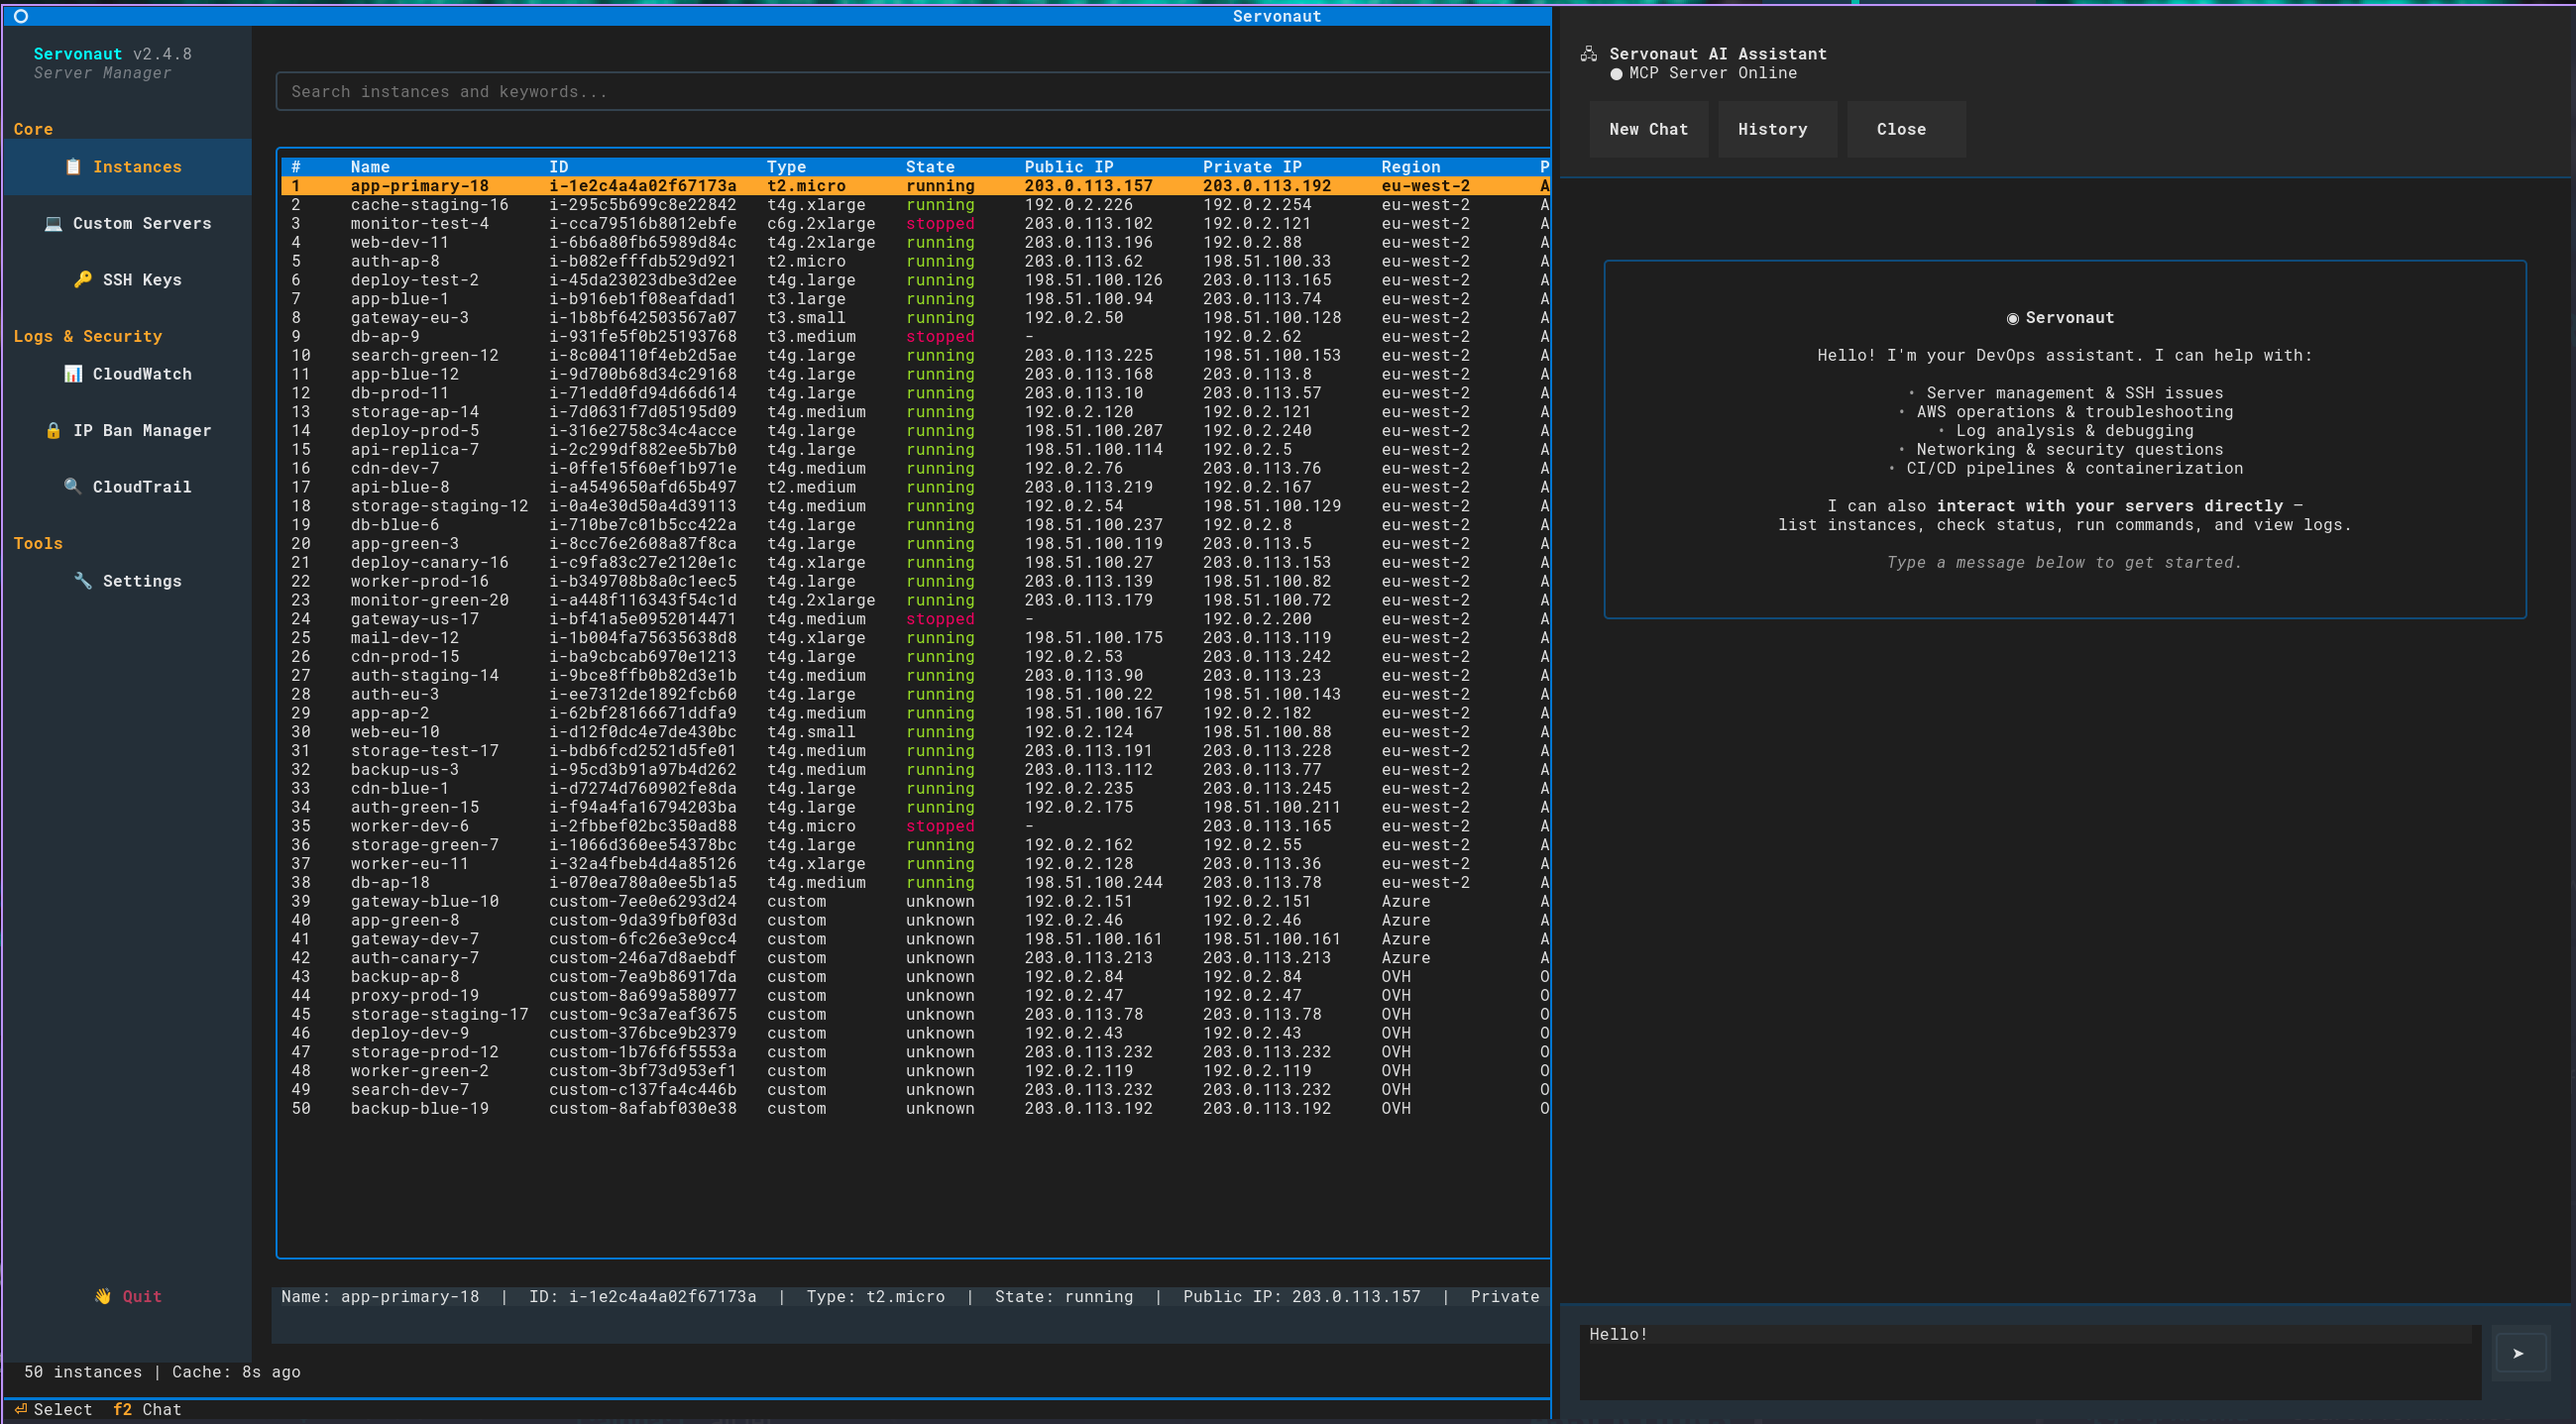
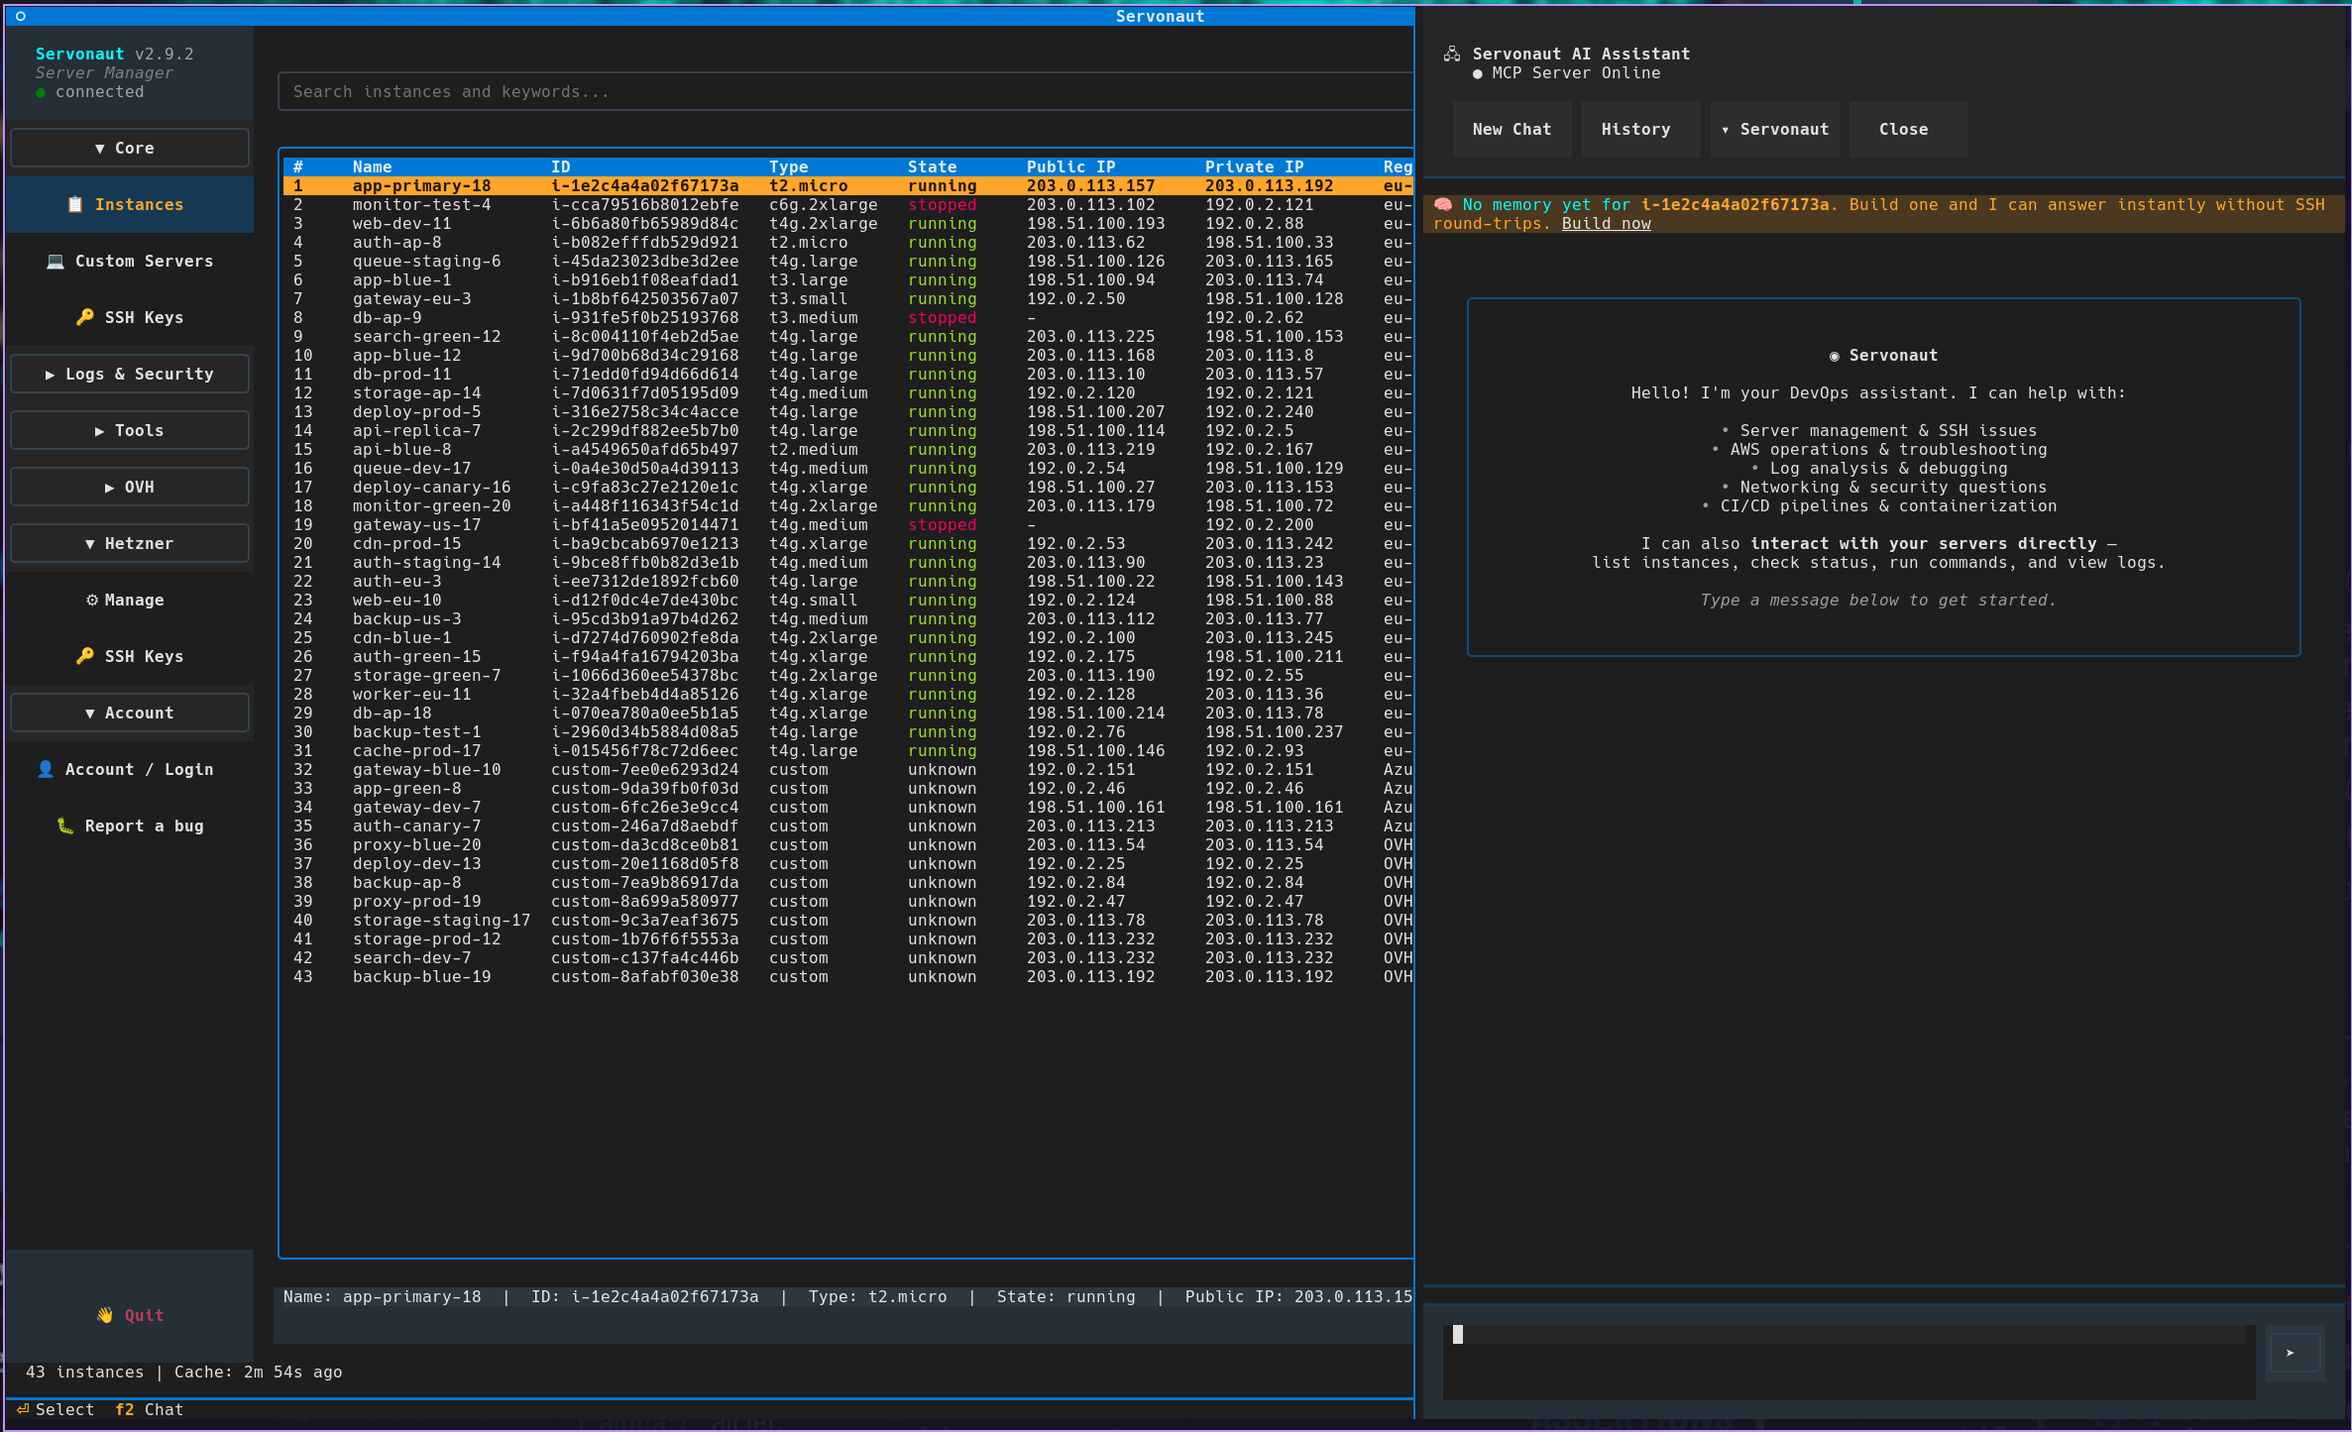
docs(readme): refresh screenshots with current TUI (v2.9.2)
Replace the two stale top screenshots with three current shots — clean
instance list, sidebar with full feature set, and AI chat panel — to
reflect Fleet Memory, Memory Sync, Secrets, and multi-provider sidebar
sections that landed since the original screenshots were taken.

diff --git a/README.md b/README.md
@@ -33,10 +33,13 @@ pipx install .
 ## Screenshots
 
 ![Instance List](docs/screenshots/instances.png)
-*Instance list with sidebar navigation, detail panel, and server metadata*
+*Instance list — AWS, Hetzner, OVH, and custom servers merged into one view*
+
+![Sidebar with full feature set](docs/screenshots/instances-sidebar.png)
+*Sidebar reveals Fleet Memory, Memory Sync, Secrets, Settings, and per-provider management for OVH and Hetzner*
 
 ![AI Chat Assistant](docs/screenshots/instances-chat.png)
-*Built-in AI assistant with MCP server integration for DevOps tasks*
+*Built-in AI assistant with MCP server integration — chat with local providers or hosted Servonaut AI*
 
 ![CloudWatch Logs Browser](docs/screenshots/cloudwatch.png)
 *CloudWatch log browsing with Top IPs analysis, geolocation, and abuse scoring*
